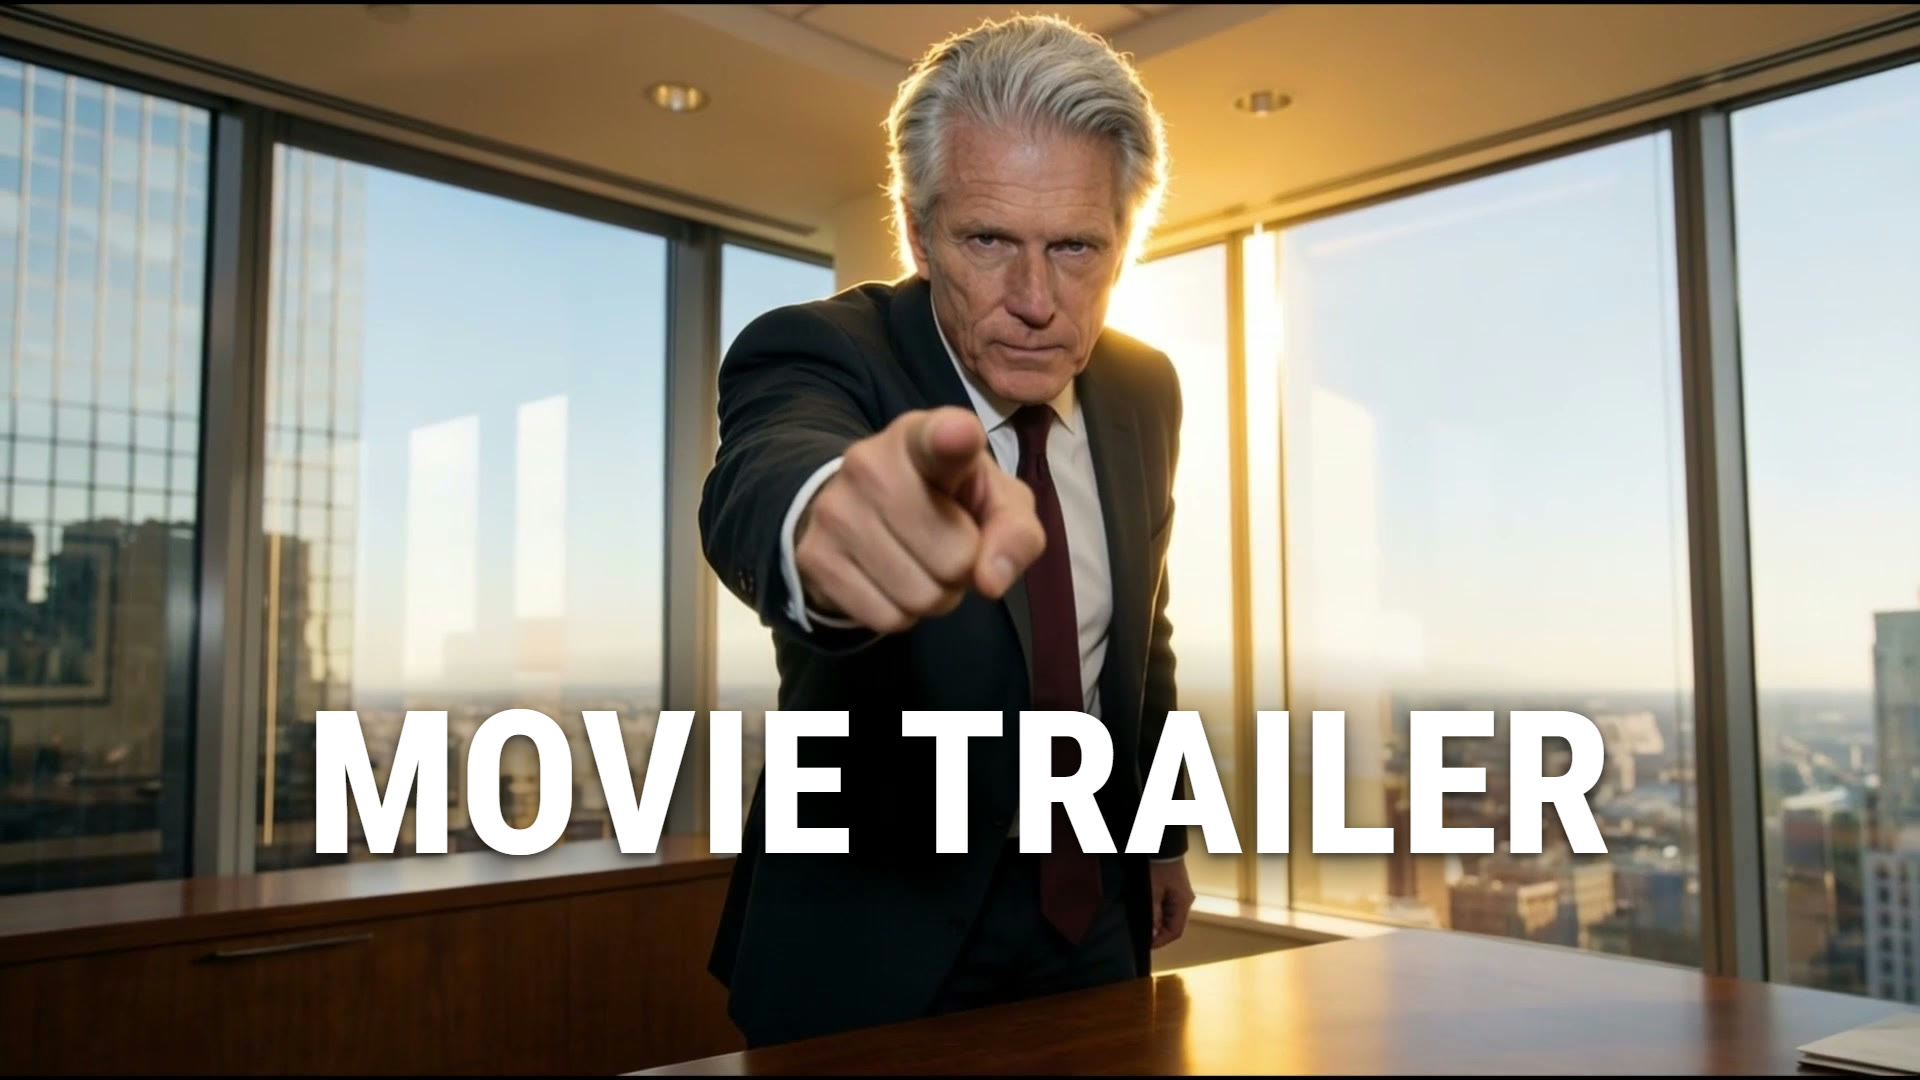
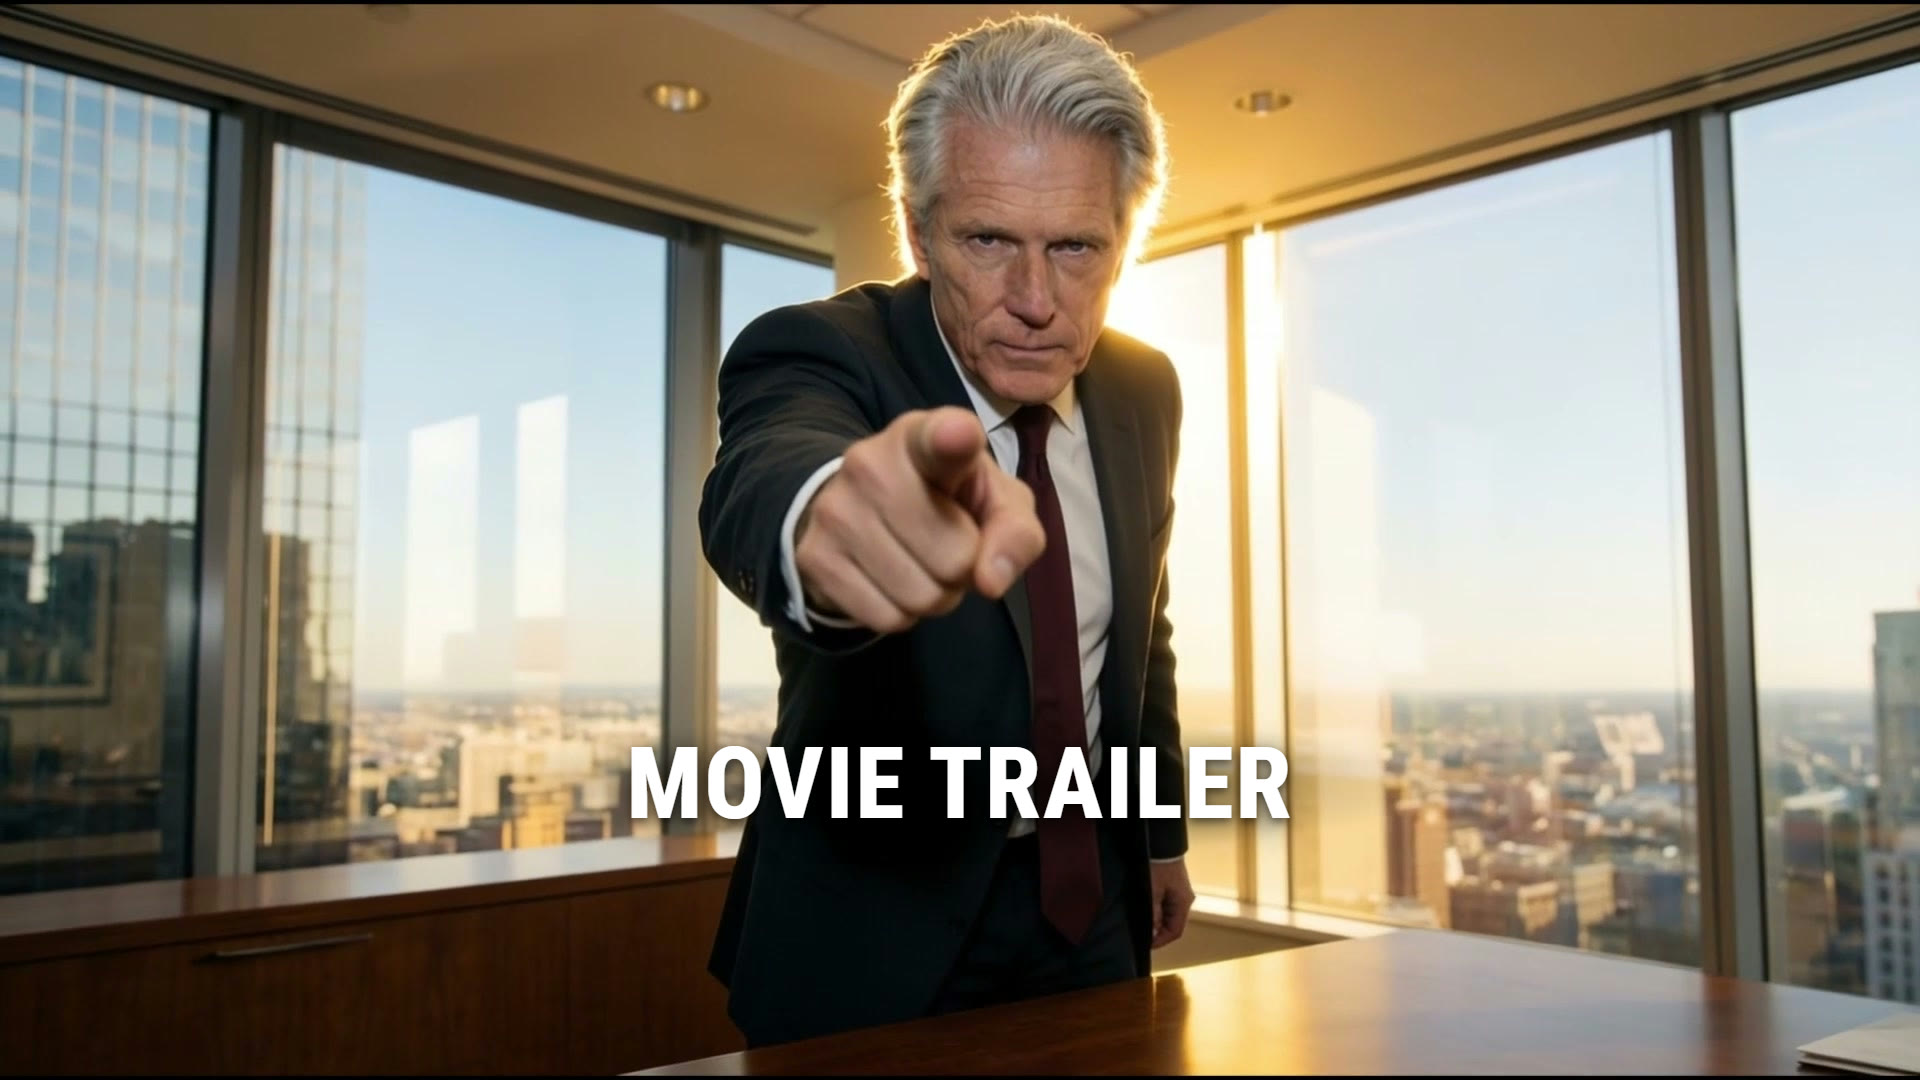
ETHICA preview: MOVIE TRAILER title on the poster at half size

Changed region(s): [[0.1562, 0.6111, 0.875, 0.825]]

diff --git a/ethica/thrive/new/index.html b/ethica/thrive/new/index.html
@@ -121,7 +121,7 @@
          Pages cap). Tap to play only; volume 0.5 from the page script. Poster (Michael, 10-24) = the villain at 0:42 + "MOVIE TRAILER"
          in Roboto Condensed 800 (closest match to the tagline lettering); source C:VideoProjectsETHICALANDING_PAGEPOSTER. -->
     <video controls preload="none" playsinline controlslist="nodownload noremoteplayback"
-           poster="/ethica/thrive/new/media/ethica-trailer-poster-movie.jpg?v=1"
+           poster="/ethica/thrive/new/media/ethica-trailer-poster-movie.jpg?v=2"
            src="https://pub-8812afd3dad54ff08c2ff2f192b93321.r2.dev/ethica-trailer-4df56d7881f4.mp4"
            aria-label="The ETHICA teaser"></video>
   </div>
